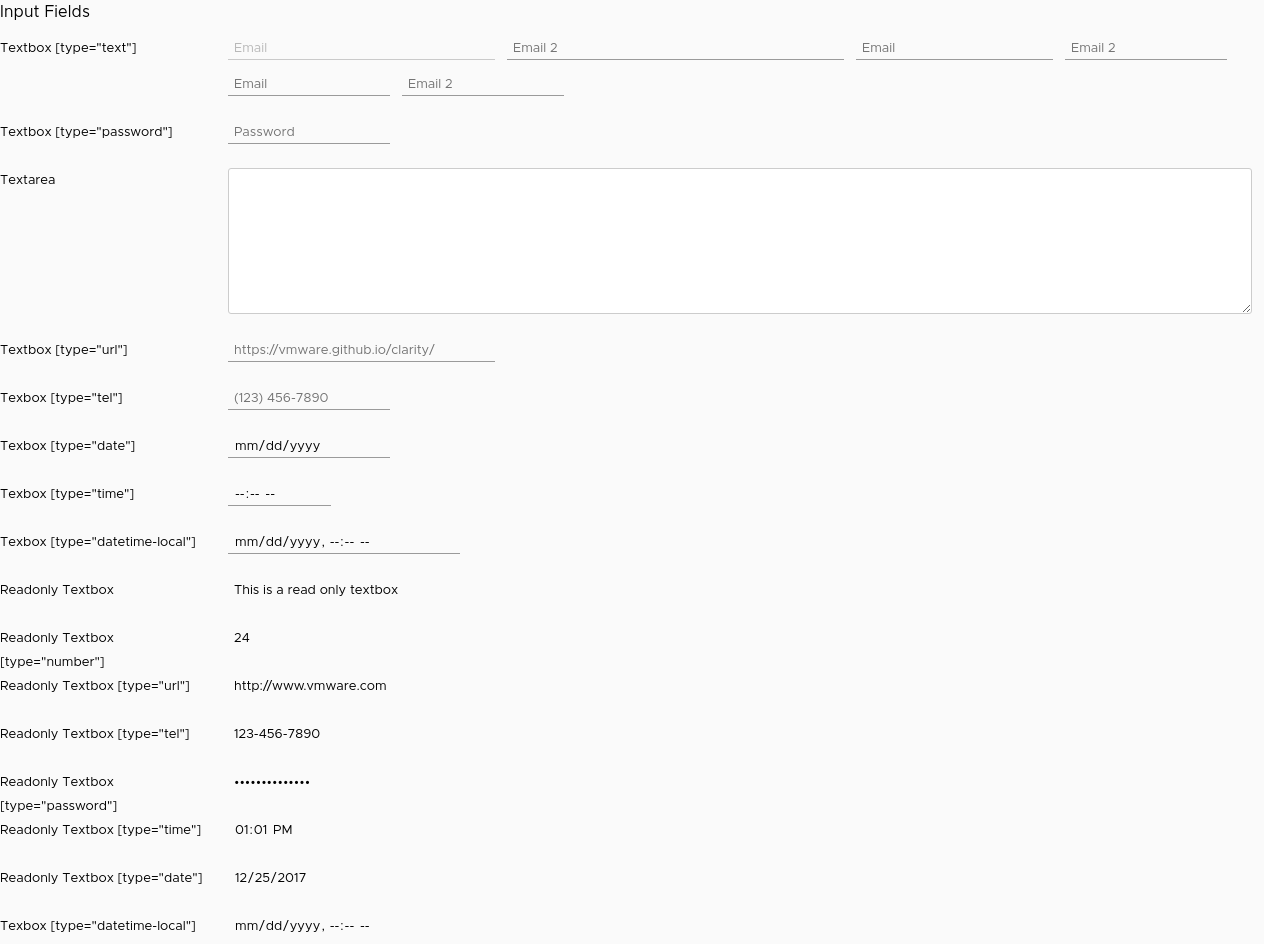
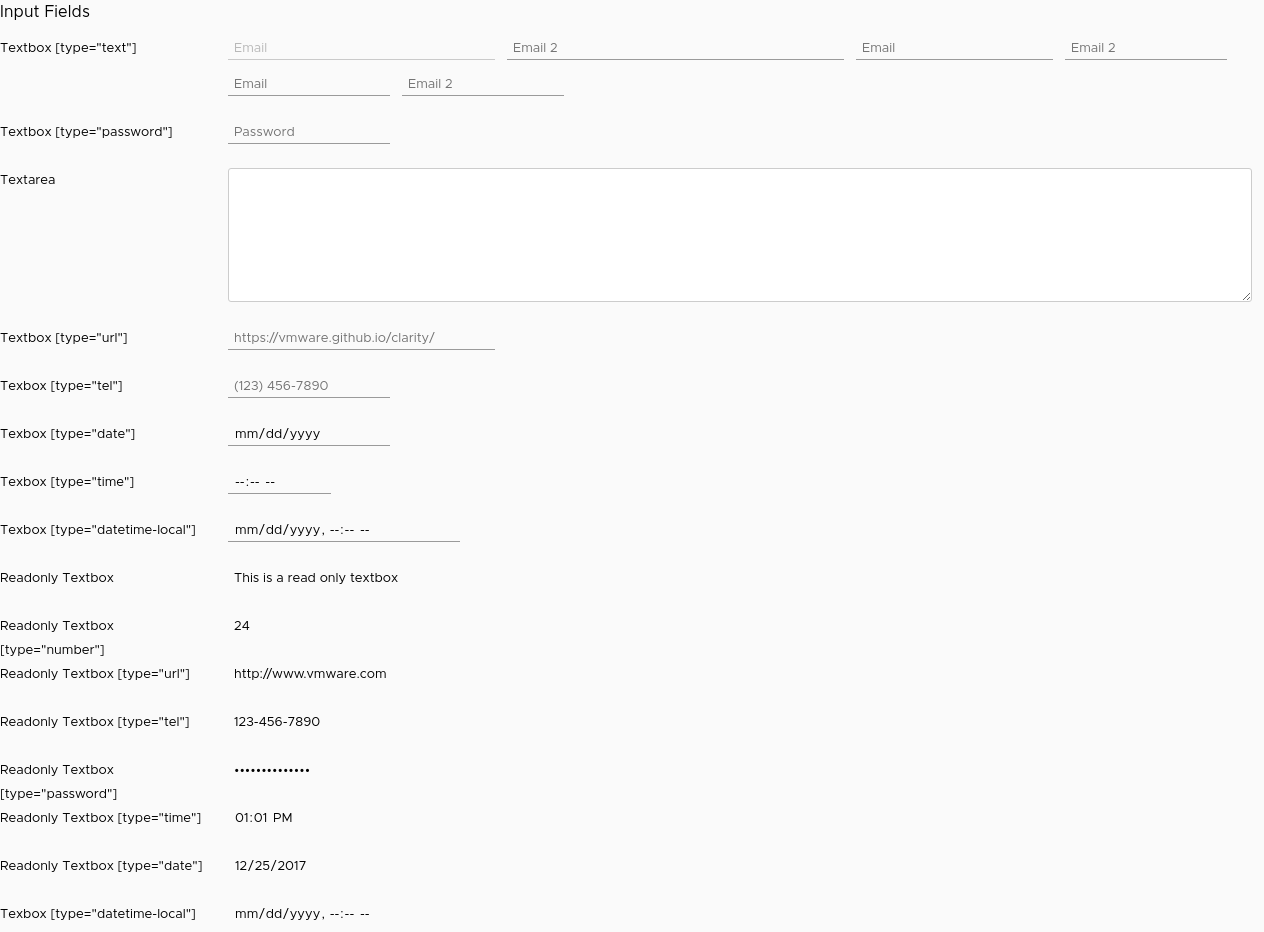
[UI] fix textarea padding (#1741)

diff --git a/src/clarity-angular/forms/_inputs.clarity.scss b/src/clarity-angular/forms/_inputs.clarity.scss
@@ -32,7 +32,7 @@
         border: $clr-default-borderwidth solid $clr-textarea-border-color;
         color: $clr-textarea-text-color;
         border-radius: $clr-global-borderradius;
-        padding: 0.5rem 0.25rem;
+        padding: 0.25rem 0.5rem;
 
         &:focus {
             @include include-outline-style-form-fields();
